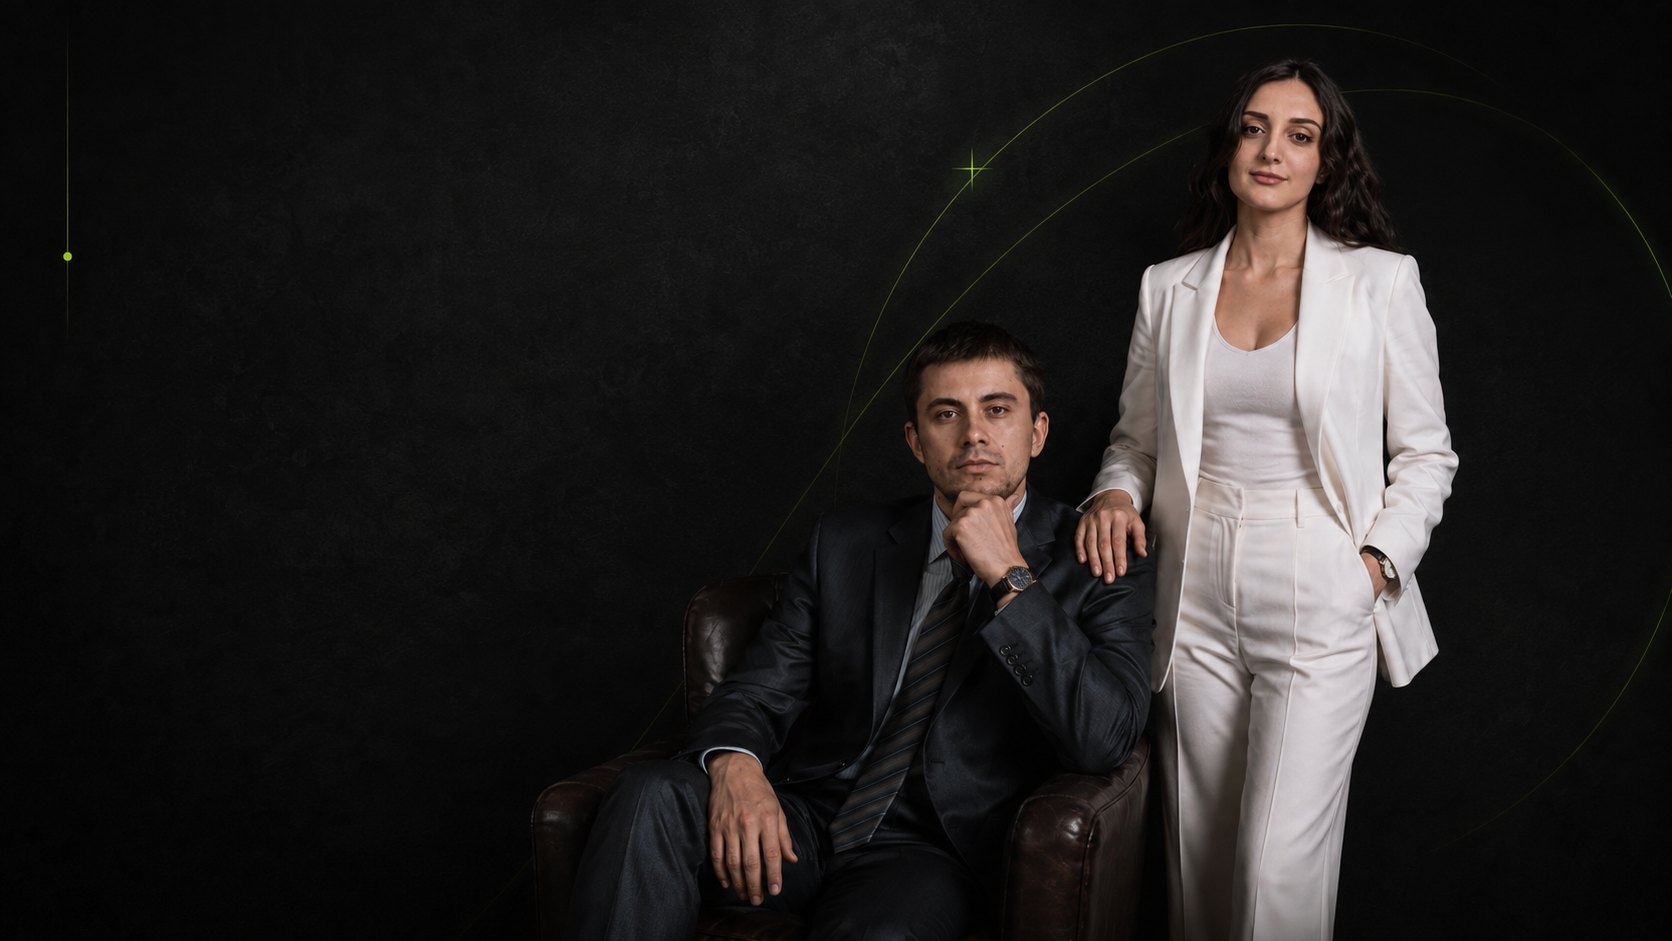
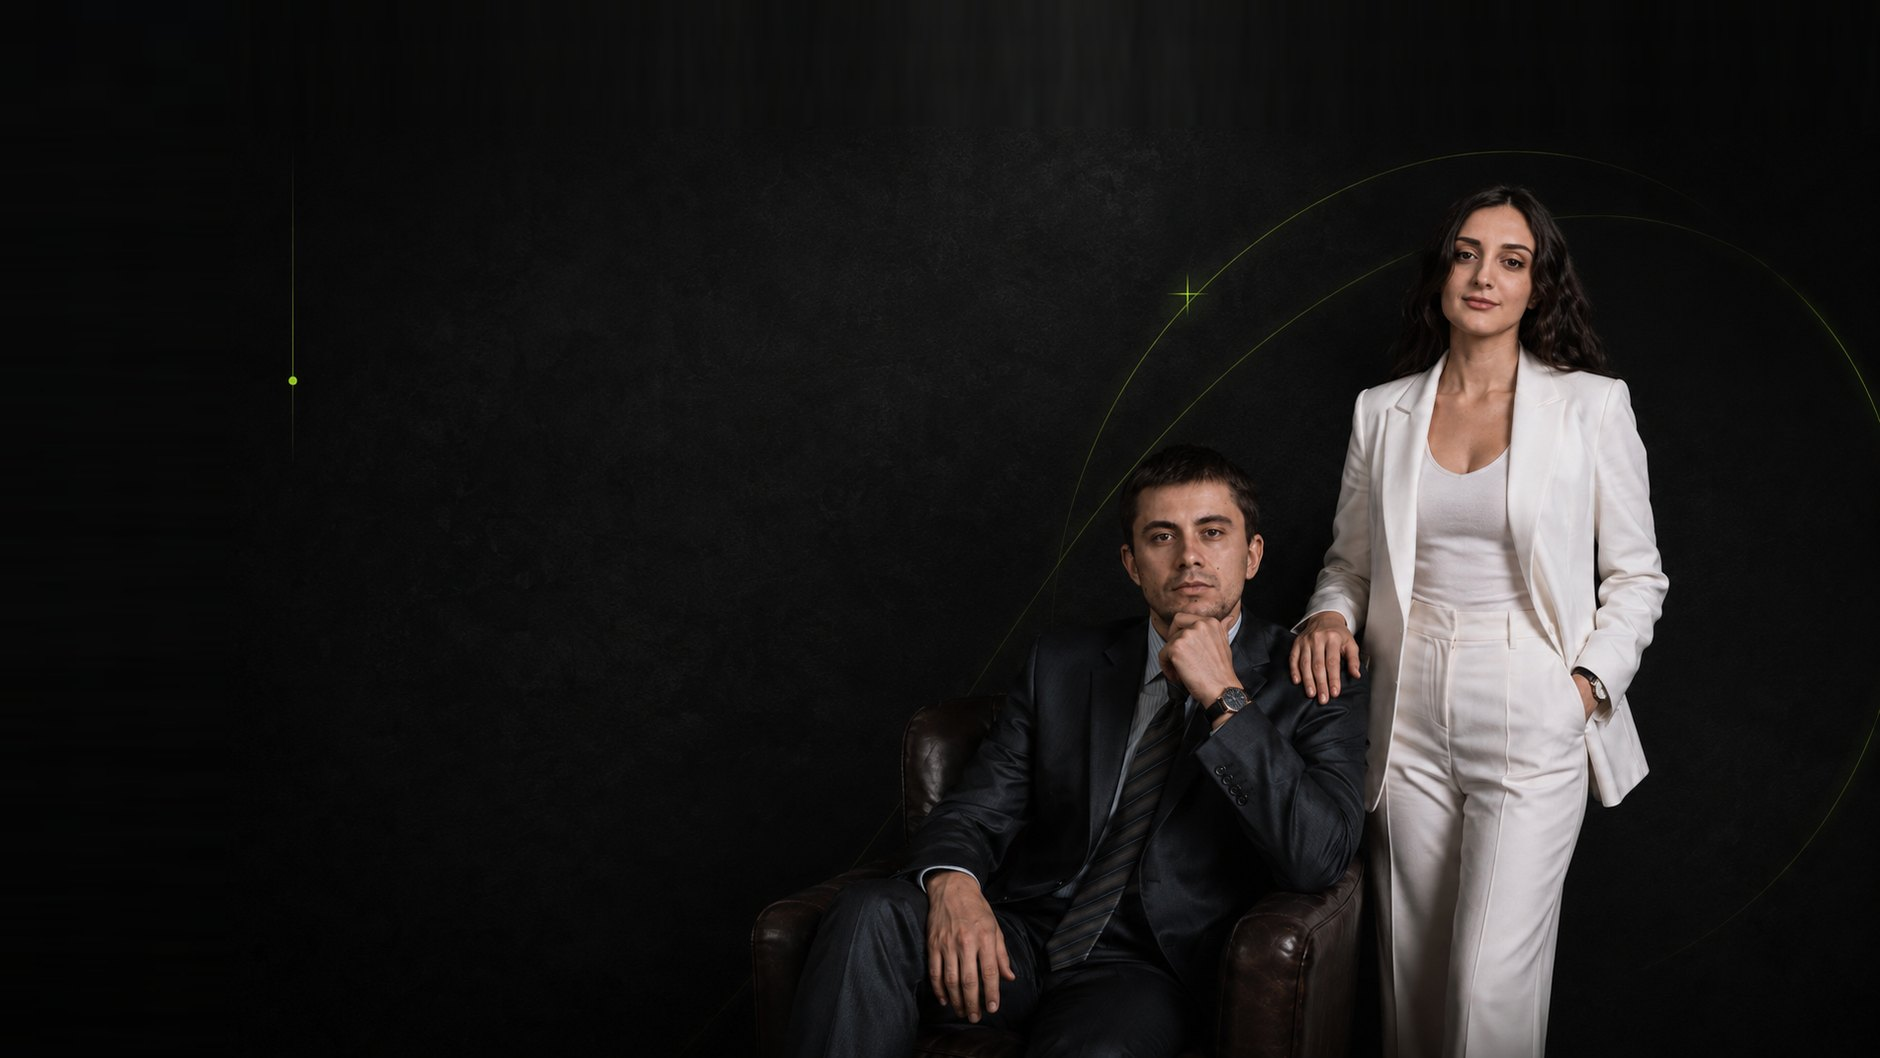
Give the desktop photo room around the subjects
The shot filled the viewport exactly, so the woman's head ran into the
phone number and the pair read as oversized. Since cover cannot zoom
out past an exact fit, the frame is padded with canvas extended from
its own top and left edges, which are flat dark wall, and the subjects
sit at 88% of the height, anchored bottom right.

Overscan insets are gone with the parallax that needed them.

diff --git a/site/index.html b/site/index.html
@@ -75,10 +75,12 @@ a{color:inherit;text-decoration:none;}
   width:100vw;translate:-50% 0;
   z-index:-1;overflow:hidden;
 }
+/* inset:0 — раньше запас по краям был нужен под параллакс,
+   теперь фон неподвижен и кадрирование должно быть предсказуемым */
 .photo{
-  position:absolute;inset:-5% -3%;
+  position:absolute;inset:0;
   background-image:url("assets/hero-duo-wide.jpg");
-  background-size:cover;background-position:72% center;
+  background-size:cover;background-position:center center;
 }
 .photo-in{position:absolute;inset:0;animation:photoIn 1800ms var(--ease) both;}
 @keyframes photoIn{from{transform:scale(1.07);opacity:0}to{transform:scale(1);opacity:1}}
